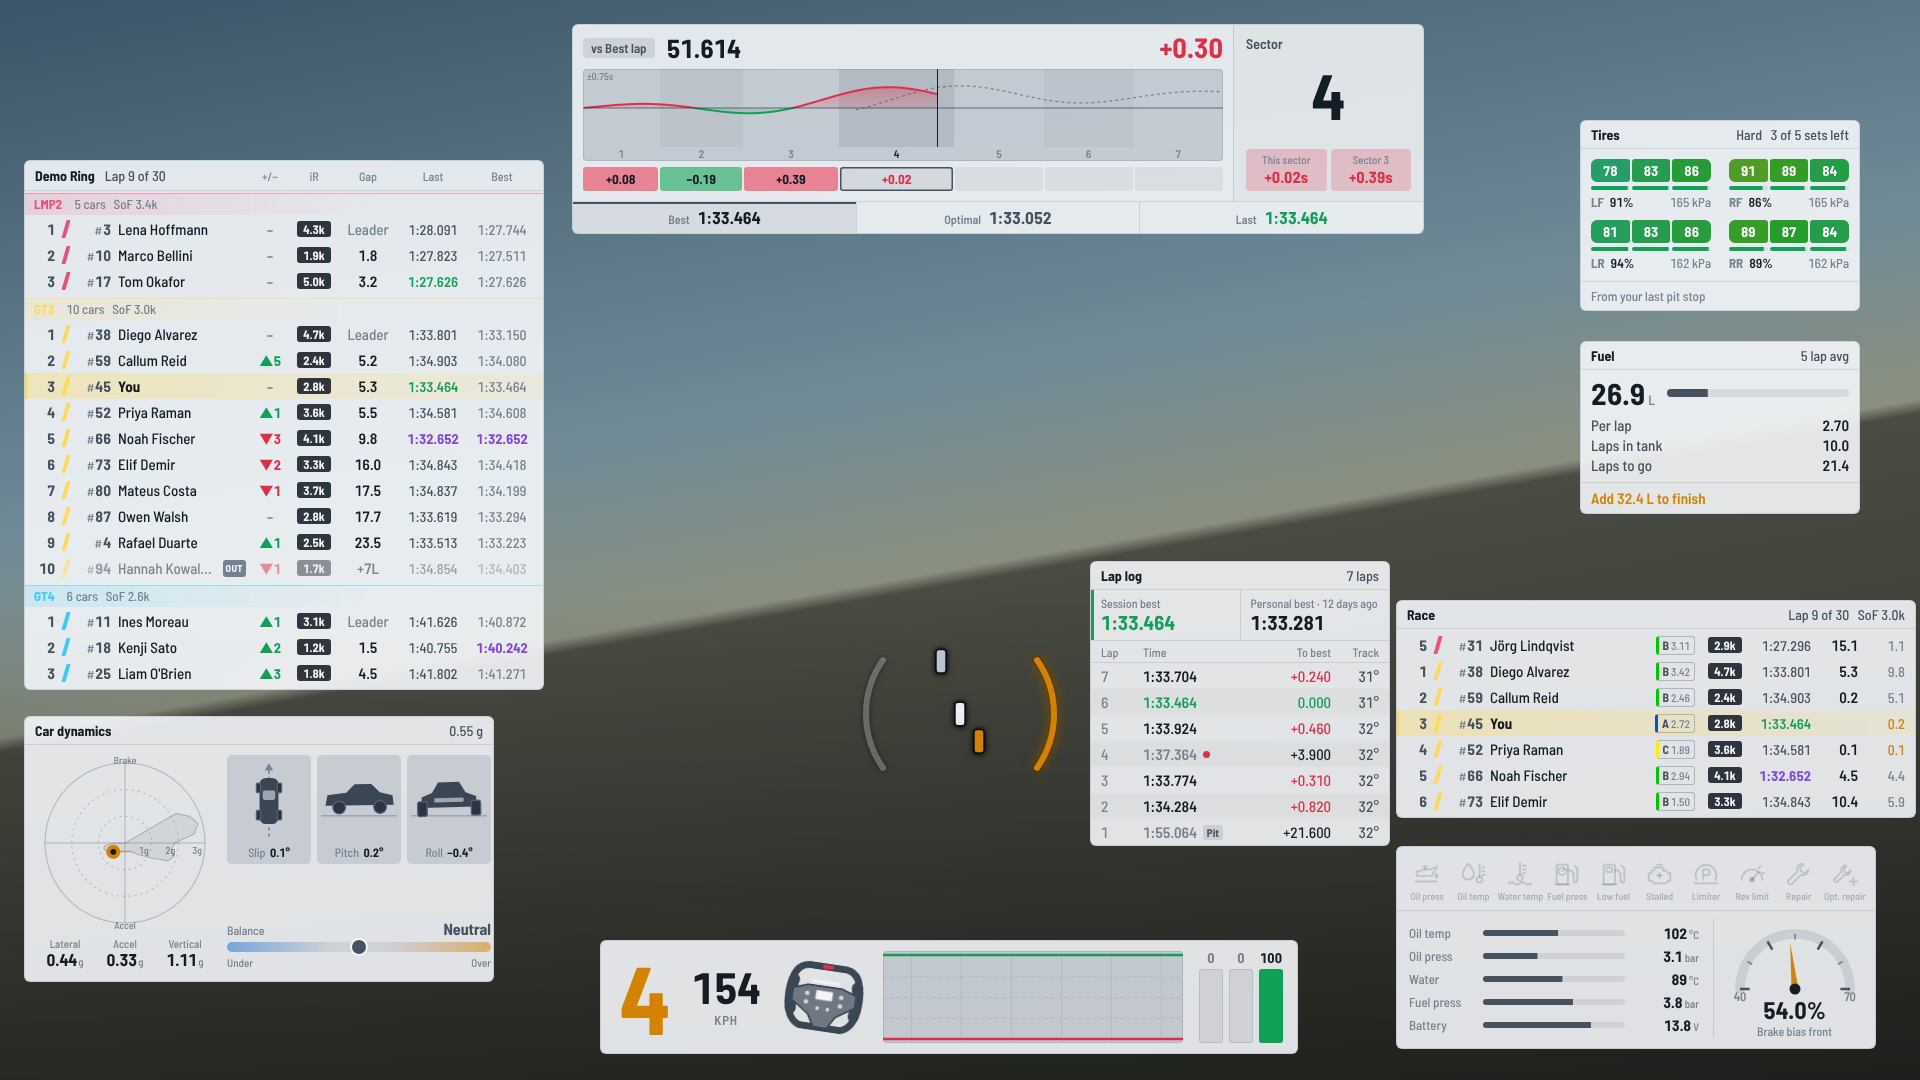
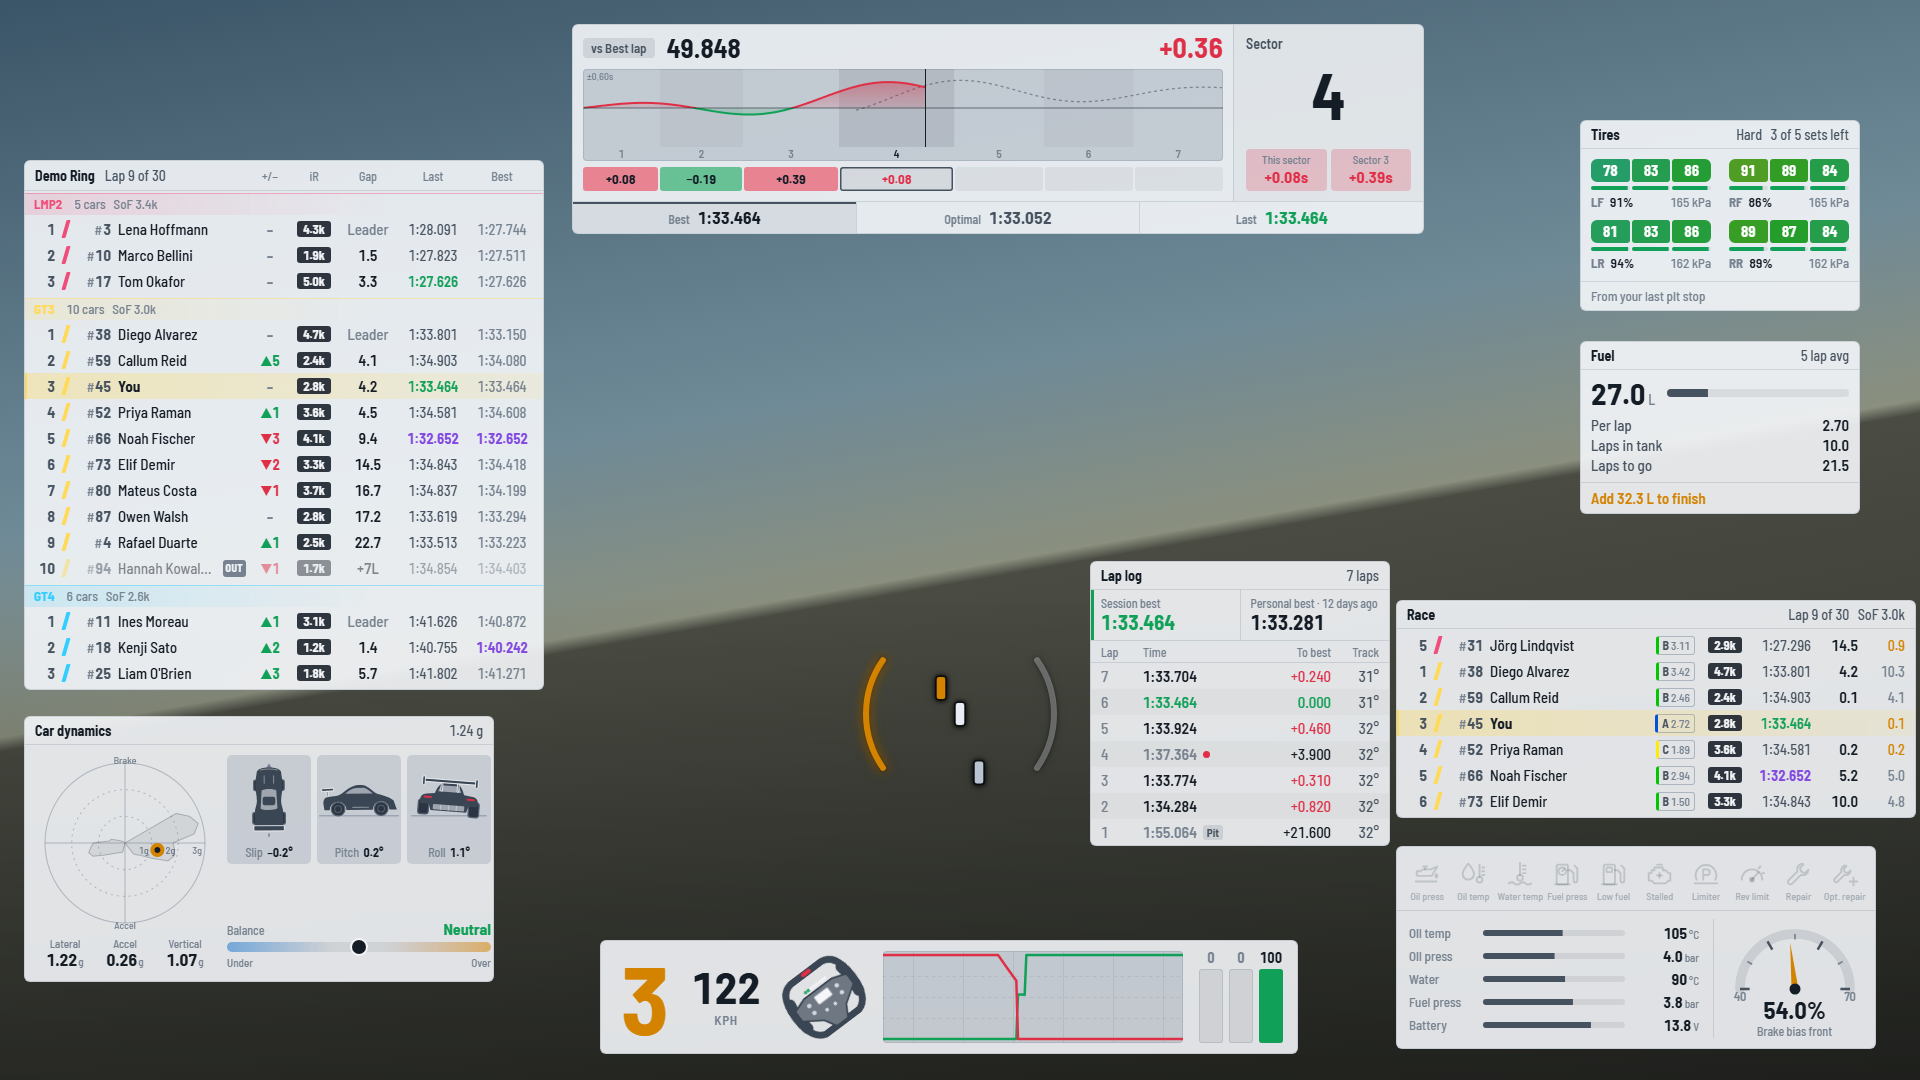
Car dynamics: draw a GT-style race car in the slip, pitch and roll views
The top, side and rear views now show a shaped race car (arches, cabin,
rear wing, splitter, diffuser and tail lights) instead of plain boxes,
and the README screenshots are refreshed to match.

diff --git a/src/widgets/Dynamics.tsx b/src/widgets/Dynamics.tsx
@@ -115,12 +115,20 @@ function TopView({ slip }: { slip: number }) {
       <line className="dyn-travel" x1="0" y1="34" x2="0" y2="-34" />
       <path className="dyn-travel-head" d="M 0 -36 L -4 -29 L 4 -29 Z" />
       <g style={{ transform: `rotate(${slip}deg)` }} className={sliding ? "is-sliding" : ""}>
-        <rect className="dyn-car" x="-9" y="-22" width="18" height="44" rx="6" />
-        <rect className="dyn-car-detail" x="-6" y="-10" width="12" height="9" rx="2" />
-        <rect className="dyn-wheel" x="-12" y="-17" width="4" height="9" rx="1" />
-        <rect className="dyn-wheel" x="8" y="-17" width="4" height="9" rx="1" />
-        <rect className="dyn-wheel" x="-12" y="9" width="4" height="9" rx="1" />
-        <rect className="dyn-wheel" x="8" y="9" width="4" height="9" rx="1" />
+        <rect className="dyn-wheel" x="-14.5" y="-20" width="5" height="10" rx="1.5" />
+        <rect className="dyn-wheel" x="9.5" y="-20" width="5" height="10" rx="1.5" />
+        <rect className="dyn-wheel" x="-15.5" y="11" width="6" height="11" rx="1.5" />
+        <rect className="dyn-wheel" x="9.5" y="11" width="6" height="11" rx="1.5" />
+        <path
+          className="dyn-car"
+          d="M 0 -32 C 6 -32 10 -31 11.5 -28 L 12.5 -21 C 13 -17 13 -13 12.5 -9 C 12 -6 11.5 -3 11.5 0 C 11.5 4 13.5 7 13.5 11
+             L 13.5 22 C 13.5 25.5 12 27.5 9 27.5 L -9 27.5 C -12 27.5 -13.5 25.5 -13.5 22 L -13.5 11 C -13.5 7 -11.5 4 -11.5 0
+             C -11.5 -3 -12 -6 -12.5 -9 C -13 -13 -13 -17 -12.5 -21 L -11.5 -28 C -10 -31 -6 -32 0 -32 Z"
+        />
+        <path className="dyn-car-trim" d="M -8 -29.5 Q 0 -31.5 8 -29.5 M -4.5 -24 L -4.5 -17 M 4.5 -24 L 4.5 -17" />
+        <path className="dyn-car-detail" d="M -7 -10 C -5 -12 5 -12 7 -10 L 8 7 C 6 9 -6 9 -8 7 Z" />
+        <rect className="dyn-car" x="-6" y="-4" width="12" height="8" rx="2" />
+        <rect className="dyn-car-wing" x="-14.5" y="23.5" width="29" height="5" rx="1" />
       </g>
     </>
   );
@@ -130,12 +138,29 @@ function TopView({ slip }: { slip: number }) {
 function SideView({ pitch }: { pitch: number }) {
   return (
     <>
-      <line className="dyn-ground" x1="-36" y1="14" x2="36" y2="14" />
+      <line className="dyn-ground" x1="-38" y1="14" x2="38" y2="14" />
       <g style={{ transform: `rotate(${-pitch}deg)` }}>
-        <path className="dyn-car" d="M -32 4 L -30 -6 L -12 -8 L -4 -16 L 12 -16 L 20 -8 L 32 -5 L 33 4 Z" />
-        <circle className="dyn-wheel" cx="-19" cy="6" r="6" />
-        <circle className="dyn-wheel" cx="20" cy="6" r="6" />
+        <path
+          className="dyn-car"
+          d="M -33 8.5 L -34 2 C -34 -1 -33 -3 -31 -4 L -22 -5 C -16 -6 -12 -12 -6 -14 C -2 -15.5 4 -15.5 7 -14
+             C 11 -12 14 -8 18 -6.5 C 24 -5 30 -3 33 0 L 35 6 L 36 8.5 L 29 8.5 A 8 8 0 0 0 13 8.5
+             L -12 8.5 A 8 8 0 0 0 -28 8.5 Z"
+        />
+        <path className="dyn-car-detail" d="M -13 -7 C -10 -10 -7 -12 -3 -12.5 L 5 -12.5 C 8 -11.5 11 -9 13 -7 Z" />
+        <path className="dyn-car-trim" d="M -6 6 L 9 6" />
+        <path className="dyn-car-wing" d="M -36 -12 L -24 -12.5 L -24 -10 L -35 -9.5 Z M -31 -9.5 L -29.5 -9.5 L -29.5 -4.5 L -31 -4.5 Z" />
+        <Tyre cx={-20} />
+        <Tyre cx={21} />
       </g>
+    </>
+  );
+}
+
+function Tyre({ cx }: { cx: number }) {
+  return (
+    <>
+      <circle className="dyn-wheel" cx={cx} cy="7.5" r="6.5" />
+      <circle className="dyn-rim" cx={cx} cy="7.5" r="3.2" />
     </>
   );
 }
@@ -146,10 +171,22 @@ function RearView({ roll }: { roll: number }) {
     <>
       <line className="dyn-ground" x1="-36" y1="14" x2="36" y2="14" />
       <g style={{ transform: `rotate(${roll}deg)` }}>
-        <path className="dyn-car" d="M -26 6 L -26 -4 L -16 -8 L -10 -18 L 10 -18 L 16 -8 L 26 -4 L 26 6 Z" />
-        <rect className="dyn-car-detail" x="-14" y="-3" width="28" height="4" rx="1" />
-        <rect className="dyn-wheel" x="-30" y="0" width="9" height="14" rx="2" />
-        <rect className="dyn-wheel" x="21" y="0" width="9" height="14" rx="2" />
+        <rect className="dyn-wheel" x="-29" y="0" width="10" height="14" rx="2.5" />
+        <rect className="dyn-wheel" x="19" y="0" width="10" height="14" rx="2.5" />
+        <path
+          className="dyn-car"
+          d="M -27.5 4 L -27.5 0 C -27.5 -3 -25.5 -5 -22 -5.5 L -14 -6.5 C -12 -12 -10 -16 -6 -16.5 L 6 -16.5
+             C 10 -16 12 -12 14 -6.5 L 22 -5.5 C 25.5 -5 27.5 -3 27.5 0 L 27.5 4 L 19 4 L 17 10 L -17 10 L -19 4 Z"
+        />
+        <path className="dyn-car-detail" d="M -8.5 -14.5 L 8.5 -14.5 L 11 -8.5 L -11 -8.5 Z" />
+        <rect className="dyn-car-detail" x="-15" y="4" width="30" height="5" rx="1" />
+        <path className="dyn-car-trim" d="M -7.5 4.5 L -7.5 9 M 0 4.5 L 0 9 M 7.5 4.5 L 7.5 9" />
+        <rect className="dyn-car-light" x="-24.5" y="-3.5" width="8" height="2" rx="1" />
+        <rect className="dyn-car-light" x="16.5" y="-3.5" width="8" height="2" rx="1" />
+        <path className="dyn-car-wing" d="M -8.5 -17 L -7 -17 L -7 -9 L -8.5 -9 Z M 7 -17 L 8.5 -17 L 8.5 -9 L 7 -9 Z" />
+        <rect className="dyn-car-wing" x="-25" y="-20" width="50" height="3" rx="1" />
+        <rect className="dyn-car-wing" x="-26.5" y="-22" width="2.5" height="8" rx="0.8" />
+        <rect className="dyn-car-wing" x="24" y="-22" width="2.5" height="8" rx="0.8" />
       </g>
     </>
   );

diff --git a/src/styles/overlay.css b/src/styles/overlay.css
@@ -1209,12 +1209,34 @@
 .dyn-car-detail {
   fill: color-mix(in srgb, var(--panel-solid) 55%, transparent);
 }
+/* Shut lines, vents and diffuser fins. */
+.dyn-car-trim {
+  fill: none;
+  stroke: color-mix(in srgb, var(--panel-solid) 40%, transparent);
+  stroke-width: 1;
+  stroke-linecap: round;
+}
+/* The wing is outlined in the panel colour so it reads apart from the body behind it. */
+.dyn-car-wing {
+  fill: var(--wheel);
+  stroke: var(--panel-solid);
+  stroke-width: 0.8;
+}
+.dyn-car-light {
+  fill: var(--brake);
+}
 .dyn-wheel {
   fill: #2a3442;
   stroke: var(--ghost-wheel);
   stroke-width: 1.2;
 }
-.is-sliding .dyn-car {
+.dyn-rim {
+  fill: none;
+  stroke: var(--ghost-wheel);
+  stroke-width: 1;
+}
+.is-sliding .dyn-car,
+.is-sliding .dyn-car-wing {
   fill: var(--attention);
 }
 .dyn-travel {
